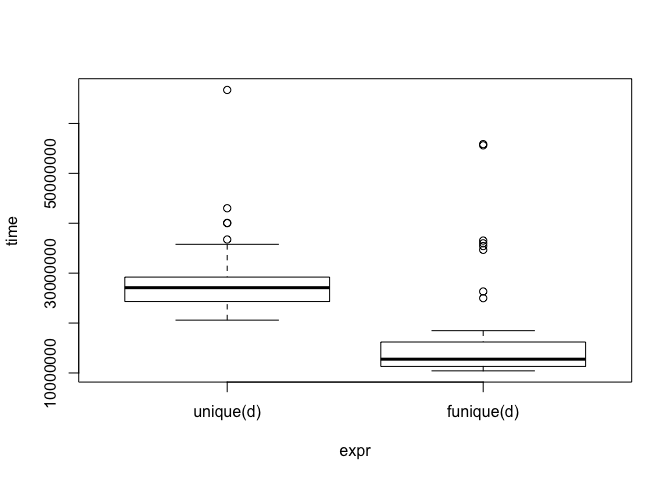
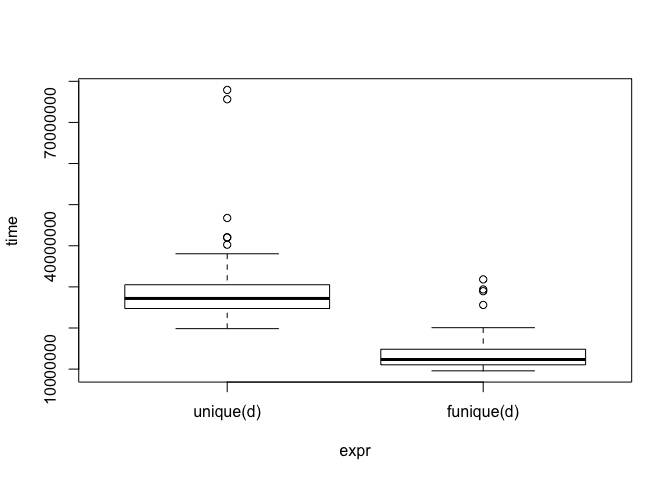
add emoji to and remove fig width in readme

diff --git a/README.md b/README.md
@@ -3,7 +3,7 @@
 funique
 =======
 
-A faster `unique()` function
+⌚ A faster `unique()` function
 
 Installation
 ------------
@@ -41,9 +41,9 @@ library(microbenchmark)
 ## benchmarks
 (mb <- microbenchmark(unique(d), funique(d), unit = "relative"))
 #> Unit: relative
-#>        expr     min     lq    mean  median      uq     max neval
-#>   unique(d) 1.97461 2.1498 1.80149 2.12301 1.80284 1.19432   100
-#>  funique(d) 1.00000 1.0000 1.00000 1.00000 1.00000 1.00000   100
+#>        expr     min      lq    mean  median      uq     max neval
+#>   unique(d) 2.07169 2.24016 2.14428 2.20406 2.05754 2.44785   100
+#>  funique(d) 1.00000 1.00000 1.00000 1.00000 1.00000 1.00000   100
 
 ## make sure the output is the same
 identical(unique(d), funique(d))
@@ -53,7 +53,7 @@ identical(unique(d), funique(d))
 plot(mb)
 ```
 
-<img src="man/figures/README-ex1-1.png" width="100%" />
+![](man/figures/README-ex1-1.png)
 
 Here's another test this time using duplicate-infested Twitter data.
 
@@ -67,9 +67,9 @@ rt2 <- rbind(rt, rt[sample(1:nrow(rt), 100), ])
 ## benchmarks
 (mb <- microbenchmark(unique(rt2), funique(rt2), unit = "relative"))
 #> Unit: relative
-#>          expr     min      lq    mean  median      uq     max neval
-#>   unique(rt2) 1.72363 1.48729 1.51731 1.52661 1.51751 1.24783   100
-#>  funique(rt2) 1.00000 1.00000 1.00000 1.00000 1.00000 1.00000   100
+#>          expr     min     lq    mean  median      uq     max neval
+#>   unique(rt2) 1.69278 1.5025 1.47479 1.53282 1.55658 1.11853   100
+#>  funique(rt2) 1.00000 1.0000 1.00000 1.00000 1.00000 1.00000   100
 
 ## make sure the output is the same
 identical(unique(rt2), funique(rt2))
@@ -79,4 +79,4 @@ identical(unique(rt2), funique(rt2))
 plot(mb)
 ```
 
-<img src="man/figures/README-ex2-1.png" width="100%" />
+![](man/figures/README-ex2-1.png)
